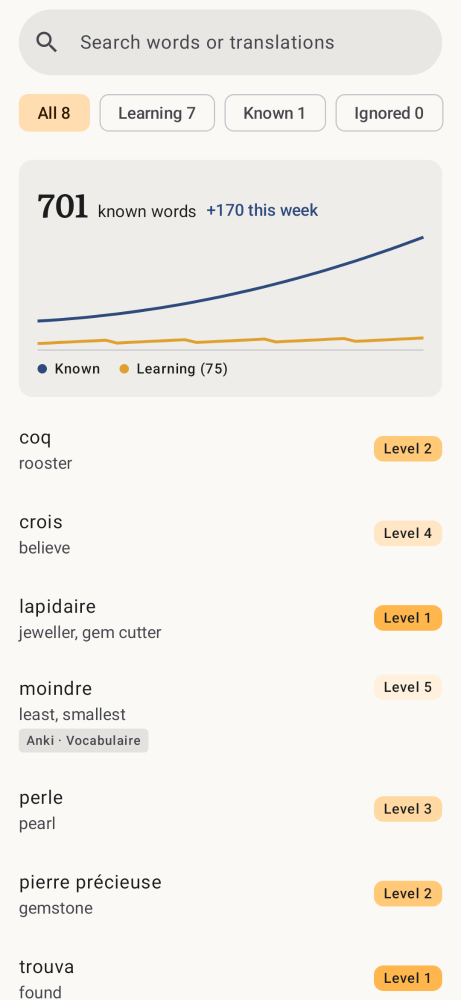
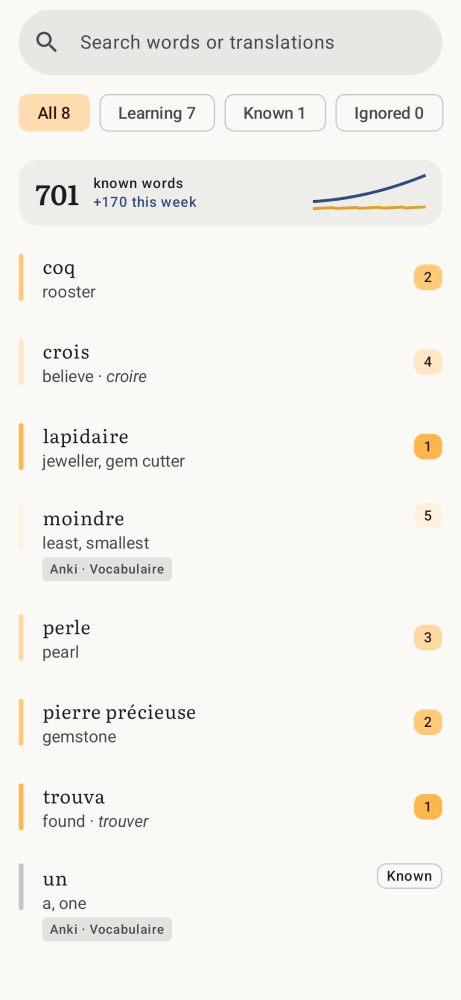
feat(android): Words with a one-line progress strip, level edges, dictionary forms, and swipes to raise or forget with Undo
Claude-Session: https://claude.ai/code/session_01JqSuo8NKpRmXNi7JhUvRyo

diff --git a/android/app/src/main/java/io/github/chflick/allreads/ui/words/WordsScreen.kt b/android/app/src/main/java/io/github/chflick/allreads/ui/words/WordsScreen.kt
@@ -1,5 +1,24 @@
 package io.github.chflick.allreads.ui.words
 
+import androidx.compose.foundation.background
+import androidx.compose.foundation.layout.fillMaxSize
+import androidx.compose.foundation.layout.height
+import androidx.compose.foundation.layout.width
+import androidx.compose.material.icons.filled.Delete
+import androidx.compose.material3.SnackbarDuration
+import androidx.compose.material3.SnackbarResult
+import androidx.compose.material3.Surface
+import androidx.compose.material3.SwipeToDismissBox
+import androidx.compose.material3.SwipeToDismissBoxValue
+import androidx.compose.material3.rememberSwipeToDismissBoxState
+import androidx.compose.ui.graphics.Color
+import androidx.compose.ui.text.SpanStyle
+import androidx.compose.ui.text.buildAnnotatedString
+import androidx.compose.ui.text.font.FontStyle
+import androidx.compose.ui.text.withStyle
+import io.github.chflick.allreads.ui.theme.Literata
+import io.github.chflick.allreads.ui.theme.LocalDarkTheme
+import io.github.chflick.allreads.ui.theme.highlight
 import androidx.compose.foundation.layout.Box
 import androidx.compose.material.icons.Icons
 import androidx.compose.material.icons.filled.MoreVert
@@ -73,6 +92,12 @@ fun WordsScreen(viewModel: WordsViewModel, services: Services? = null) {
     var importOpens by rememberSaveable { mutableIntStateOf(0) }
     val snackbar = remember { SnackbarHostState() }
     LaunchedEffect(Unit) { viewModel.refresh() }
+    LaunchedEffect(state.undo) {
+        val undo = state.undo ?: return@LaunchedEffect
+        viewModel.undoShown()
+        val result = snackbar.showSnackbar(undo.message, actionLabel = "Undo", duration = SnackbarDuration.Short)
+        if (result == SnackbarResult.ActionPerformed) viewModel.undo(undo)
+    }
     LaunchedEffect(state.message) {
         state.message?.let {
             snackbar.showSnackbar(it)
@@ -87,6 +112,8 @@ fun WordsScreen(viewModel: WordsViewModel, services: Services? = null) {
         onSearch = viewModel::search,
         onFilter = viewModel::filter,
         onEdit = viewModel::edit,
+        onRaise = viewModel::raise,
+        onForget = viewModel::forget,
         onImport = services?.let {
             {
                 importOpens += 1
@@ -118,21 +145,88 @@ fun WordsScreen(viewModel: WordsViewModel, services: Services? = null) {
 
 @Composable
 private fun TermRow(term: SavedTerm, onClick: () -> Unit) {
+    val dark = LocalDarkTheme.current
+    val edge = term.status.highlight(dark) ?: MaterialTheme.colorScheme.outlineVariant
     ListItem(
         modifier = Modifier.clickable(onClick = onClick),
-        headlineContent = { Text(term.displayText) },
-        supportingContent = if (term.translation.isBlank() && term.importedFrom.isBlank()) {
-            null
-        } else {
-            {
-                Column(verticalArrangement = Arrangement.spacedBy(2.dp)) {
-                    if (term.translation.isNotBlank()) Text(term.translation)
-                    SourceBadge(term.importedFrom)
+        leadingContent = {
+            // The level's colour down the left edge: scanning the list shows its shape.
+            Box(Modifier.width(4.dp).height(40.dp).background(edge, MaterialTheme.shapes.extraSmall))
+        },
+        headlineContent = { Text(term.displayText, style = MaterialTheme.typography.bodyLarge.copy(fontFamily = Literata)) },
+        supportingContent = {
+            Column(verticalArrangement = Arrangement.spacedBy(2.dp)) {
+                // "believe · croire": a form says which word it belongs to.
+                val lemma = term.lemma?.takeIf { it.isNotBlank() && it != term.termKey }
+                if (term.translation.isNotBlank() || lemma != null) {
+                    Text(buildAnnotatedString {
+                        append(term.translation)
+                        if (lemma != null) {
+                            if (term.translation.isNotBlank()) append(" · ")
+                            withStyle(SpanStyle(fontStyle = FontStyle.Italic)) { append(lemma) }
+                        }
+                    })
+                }
+                SourceBadge(term.importedFrom)
+            }
+        },
+        trailingContent = { StatusPill(term.status, short = true) },
+    )
+}
+
+/**
+ * A word row that swipes: to the left raises its level, to the right forgets
+ * it. Both leave the row in place; the list updates, and Undo is offered.
+ */
+@Composable
+private fun SwipeableTermRow(term: SavedTerm, onClick: () -> Unit, onRaise: () -> Unit, onForget: () -> Unit) {
+    val canRaise = term.status is WordStatus.Learning
+    val state = rememberSwipeToDismissBoxState(
+        confirmValueChange = { value ->
+            when (value) {
+                SwipeToDismissBoxValue.EndToStart -> if (canRaise) onRaise()
+                SwipeToDismissBoxValue.StartToEnd -> onForget()
+                SwipeToDismissBoxValue.Settled -> Unit
+            }
+            // Snap back: the action happened, the row stays until the list updates.
+            false
+        },
+        // Half the width: a short flick never forgets a word.
+        positionalThreshold = { width -> width * 0.5f },
+    )
+    SwipeToDismissBox(
+        state = state,
+        enableDismissFromEndToStart = canRaise,
+        backgroundContent = {
+            val forgetting = state.dismissDirection == SwipeToDismissBoxValue.StartToEnd
+            val raising = state.dismissDirection == SwipeToDismissBoxValue.EndToStart
+            Box(
+                Modifier.fillMaxSize().background(
+                    when {
+                        forgetting -> MaterialTheme.colorScheme.error
+                        raising -> Color(0xFF4F8A3B)
+                        else -> Color.Transparent
+                    },
+                ).padding(horizontal = 24.dp),
+                contentAlignment = if (forgetting) Alignment.CenterStart else Alignment.CenterEnd,
+            ) {
+                if (forgetting) {
+                    Row(verticalAlignment = Alignment.CenterVertically, horizontalArrangement = Arrangement.spacedBy(8.dp)) {
+                        Icon(Icons.Default.Delete, contentDescription = null, tint = MaterialTheme.colorScheme.onError)
+                        Text("Forget", color = MaterialTheme.colorScheme.onError, style = MaterialTheme.typography.labelLarge)
+                    }
+                } else if (raising) {
+                    Text(
+                        if ((term.status as? WordStatus.Learning)?.level == 5.toUByte()) "Known ›" else "Level up ›",
+                        color = Color.White,
+                        style = MaterialTheme.typography.labelLarge,
+                    )
                 }
             }
         },
-        trailingContent = { StatusPill(term.status) },
-    )
+    ) {
+        Surface(color = MaterialTheme.colorScheme.surface) { TermRow(term, onClick) }
+    }
 }
 
 @OptIn(ExperimentalMaterial3Api::class, ExperimentalLayoutApi::class)
@@ -201,6 +295,8 @@ fun WordsContent(
     onFilter: (WordFilter) -> Unit,
     onEdit: (SavedTerm) -> Unit,
     onImport: (() -> Unit)? = null,
+    onRaise: (SavedTerm) -> Unit = {},
+    onForget: (SavedTerm) -> Unit = {},
 ) {
     Scaffold(
         // A slim header like the library's: the search, then one row of chips
@@ -253,11 +349,11 @@ fun WordsContent(
             LazyColumn(Modifier.fillMaxSize().padding(padding)) {
                 if (showProgress) {
                     item(key = "progress") {
-                        ProgressCard(state.progress, Modifier.padding(horizontal = 16.dp, vertical = 8.dp))
+                        ProgressStrip(state.progress, Modifier.padding(horizontal = 16.dp, vertical = 8.dp))
                     }
                 }
                 items(visible, key = { it.id }) { term ->
-                    TermRow(term, onClick = { onEdit(term) })
+                    SwipeableTermRow(term, onClick = { onEdit(term) }, onRaise = { onRaise(term) }, onForget = { onForget(term) })
                 }
             }
         }

diff --git a/android/app/src/main/java/io/github/chflick/allreads/ui/words/Progress.kt b/android/app/src/main/java/io/github/chflick/allreads/ui/words/Progress.kt
@@ -1,5 +1,14 @@
 package io.github.chflick.allreads.ui.words
 
+import androidx.compose.material3.ExperimentalMaterial3Api
+import androidx.compose.material3.ModalBottomSheet
+import androidx.compose.material3.Surface
+import androidx.compose.runtime.getValue
+import androidx.compose.runtime.mutableStateOf
+import androidx.compose.runtime.remember
+import androidx.compose.runtime.setValue
+import androidx.compose.foundation.layout.width
+import androidx.compose.ui.unit.Dp
 import androidx.compose.foundation.Canvas
 import androidx.compose.foundation.layout.Arrangement
 import androidx.compose.foundation.layout.Box
@@ -70,21 +79,63 @@ fun ProgressCard(progress: WordProgress, modifier: Modifier = Modifier) {
 
 /** Two lines over the days, both against the larger of the two counts. */
 @Composable
-private fun ProgressChart(days: List<DayCount>, knownColour: Color, learningColour: Color) {
+private fun ProgressChart(days: List<DayCount>, knownColour: Color, learningColour: Color, height: Dp = 96.dp, baseline: Boolean = true) {
     val grid = MaterialTheme.colorScheme.outlineVariant
-    Canvas(Modifier.fillMaxWidth().height(96.dp)) {
+    Canvas(Modifier.fillMaxWidth().height(height)) {
         val known = days.map { it.known.toInt() }
         val learning = days.map { it.learning.toInt() }
         val top = maxOf(known.maxOrNull() ?: 0, learning.maxOrNull() ?: 0, 1)
         val step = size.width / (days.size - 1)
         fun y(value: Int) = size.height - value.toFloat() / top * size.height
-        drawLine(grid, Offset(0f, size.height), Offset(size.width, size.height), strokeWidth = 1.dp.toPx())
+        if (baseline) drawLine(grid, Offset(0f, size.height), Offset(size.width, size.height), strokeWidth = 1.dp.toPx())
         for ((values, colour) in listOf(learning to learningColour, known to knownColour)) {
             val path = Path()
             values.forEachIndexed { i, value ->
                 if (i == 0) path.moveTo(0f, y(value)) else path.lineTo(i * step, y(value))
             }
             drawPath(path, colour, style = Stroke(width = 2.5.dp.toPx()))
+        }
+    }
+}
+
+/**
+ * "701 known words · +170 this week" with a small chart, in one line, so the
+ * list starts higher. A tap opens the full chart.
+ */
+@OptIn(ExperimentalMaterial3Api::class)
+@Composable
+fun ProgressStrip(progress: WordProgress, modifier: Modifier = Modifier) {
+    if (progress.days.isEmpty()) return
+    var open by remember { mutableStateOf(false) }
+    val now = progress.days.last()
+    Surface(
+        onClick = { open = true },
+        color = MaterialTheme.colorScheme.surfaceContainer,
+        shape = MaterialTheme.shapes.large,
+        modifier = modifier.fillMaxWidth(),
+    ) {
+        Row(Modifier.padding(horizontal = 14.dp, vertical = 10.dp), verticalAlignment = Alignment.CenterVertically, horizontalArrangement = Arrangement.spacedBy(12.dp)) {
+            Text("%,d".format(now.known.toInt()), style = MaterialTheme.typography.headlineSmall)
+            Column(Modifier.weight(1f)) {
+                Text("known words", style = MaterialTheme.typography.labelMedium)
+                if (progress.knownThisWeek > 0u) {
+                    Text(
+                        "+%,d this week".format(progress.knownThisWeek.toInt()),
+                        style = MaterialTheme.typography.labelMedium,
+                        color = MaterialTheme.colorScheme.primary,
+                    )
+                }
+            }
+            if (progress.days.size > 1) {
+                Box(Modifier.width(96.dp)) {
+                    ProgressChart(progress.days, MaterialTheme.colorScheme.primary, Color(0xFFE0A030), height = 30.dp, baseline = false)
+                }
+            }
+        }
+    }
+    if (open) {
+        ModalBottomSheet(onDismissRequest = { open = false }) {
+            ProgressCard(progress, Modifier.padding(start = 16.dp, end = 16.dp, bottom = 32.dp))
         }
     }
 }

diff --git a/android/app/src/main/java/io/github/chflick/allreads/ui/words/WordsViewModel.kt b/android/app/src/main/java/io/github/chflick/allreads/ui/words/WordsViewModel.kt
@@ -11,6 +11,7 @@ import kotlinx.coroutines.flow.asStateFlow
 import kotlinx.coroutines.flow.update
 import kotlinx.coroutines.launch
 import uniffi.allreads_ffi.SavedTerm
+import io.github.chflick.allreads.ui.theme.longLabel
 import uniffi.allreads_ffi.WordProgress
 import uniffi.allreads_ffi.TermInput
 import uniffi.allreads_ffi.WordStatus
@@ -28,6 +29,8 @@ data class WordsState(
     val message: String? = null,
     /** Known and learning words per day in this language, for the chart. */
     val progress: WordProgress = WordProgress(emptyList(), 0u),
+    /** The last swipe, offered for undo. */
+    val undo: WordUndo? = null,
 ) {
     /** Words per filter chip, counted once per state, not on every recomposition. */
     private val counts: Map<WordFilter, Int> by lazy {
@@ -135,4 +138,71 @@ class WordsViewModel(
     }
 
     fun messageShown() = _state.update { it.copy(message = null) }
+
+    /** A swipe to the left: one level up, 5 becomes known, as the reader's double tap. */
+    fun raise(term: SavedTerm) {
+        val next = when (val status = term.status) {
+            is WordStatus.Learning -> if (status.level < 5u) WordStatus.Learning((status.level + 1u).toUByte()) else WordStatus.WellKnown
+            else -> return
+        }
+        viewModelScope.launch {
+            val result = runCatching { repository.setTermStatus(term.languageCode, term.termKey, next) }
+            _state.update {
+                it.copy(
+                    undo = result.getOrNull()?.let { before -> WordUndo("${term.displayText}: ${next.longLabel().lowercase()}", term.copy(status = before), forgotten = false) },
+                    message = result.exceptionOrNull()?.let(::describe),
+                )
+            }
+            refresh()
+            syncAnki()
+        }
+    }
+
+    /** A swipe to the right: the word is forgotten (its Anki card stays), with Undo. */
+    fun forget(term: SavedTerm) {
+        viewModelScope.launch {
+            val result = runCatching { repository.forgetTerm(term.languageCode, term.termKey) }
+            _state.update {
+                it.copy(
+                    undo = WordUndo("${term.displayText} forgotten", term, forgotten = true).takeIf { result.isSuccess },
+                    message = result.exceptionOrNull()?.let(::describe),
+                )
+            }
+            refresh()
+        }
+    }
+
+    fun undoShown() = _state.update { it.copy(undo = null) }
+
+    /** Puts a swiped word back as it was: its level, or the whole word after a forget. */
+    fun undo(undo: WordUndo) {
+        val term = undo.term
+        viewModelScope.launch {
+            runCatching {
+                if (undo.forgotten) {
+                    repository.saveTerm(
+                        TermInput(
+                            languageCode = term.languageCode,
+                            text = term.displayText,
+                            status = term.status,
+                            translation = term.translation,
+                            notes = term.notes,
+                            lemma = term.lemma,
+                            sentence = null,
+                            sentenceTranslation = null,
+                            sourceBook = null,
+                            sourceChapter = null,
+                        ),
+                    )
+                } else {
+                    repository.setTermStatus(term.languageCode, term.termKey, term.status)
+                }
+            }.onFailure { e -> _state.update { it.copy(message = describe(e)) } }
+            refresh()
+            syncAnki()
+        }
+    }
 }
+
+/** What a swipe did, for the Undo snackbar: the word as it was before. */
+data class WordUndo(val message: String, val term: SavedTerm, val forgotten: Boolean)

diff --git a/android/app/src/main/java/io/github/chflick/allreads/ui/theme/StatusChip.kt b/android/app/src/main/java/io/github/chflick/allreads/ui/theme/StatusChip.kt
@@ -59,7 +59,7 @@ fun StatusChip(status: WordStatus, selected: Boolean, onClick: () -> Unit) {
 
 /** A small pill in the status colour with "Level 2", "Known" and so on. */
 @Composable
-fun StatusPill(status: WordStatus) {
+fun StatusPill(status: WordStatus, short: Boolean = false) {
     val fill = status.highlight(LocalDarkTheme.current)
     val shape = MaterialTheme.shapes.small
     val modifier = if (fill != null) {
@@ -68,7 +68,7 @@ fun StatusPill(status: WordStatus) {
         Modifier.border(1.dp, MaterialTheme.colorScheme.outlineVariant, shape)
     }
     Text(
-        status.longLabel(),
+        if (short) status.label().replace("Ignore", "Ignored") else status.longLabel(),
         style = MaterialTheme.typography.labelMedium,
         color = MaterialTheme.colorScheme.onSurface,
         modifier = modifier.padding(horizontal = 8.dp, vertical = 3.dp),
